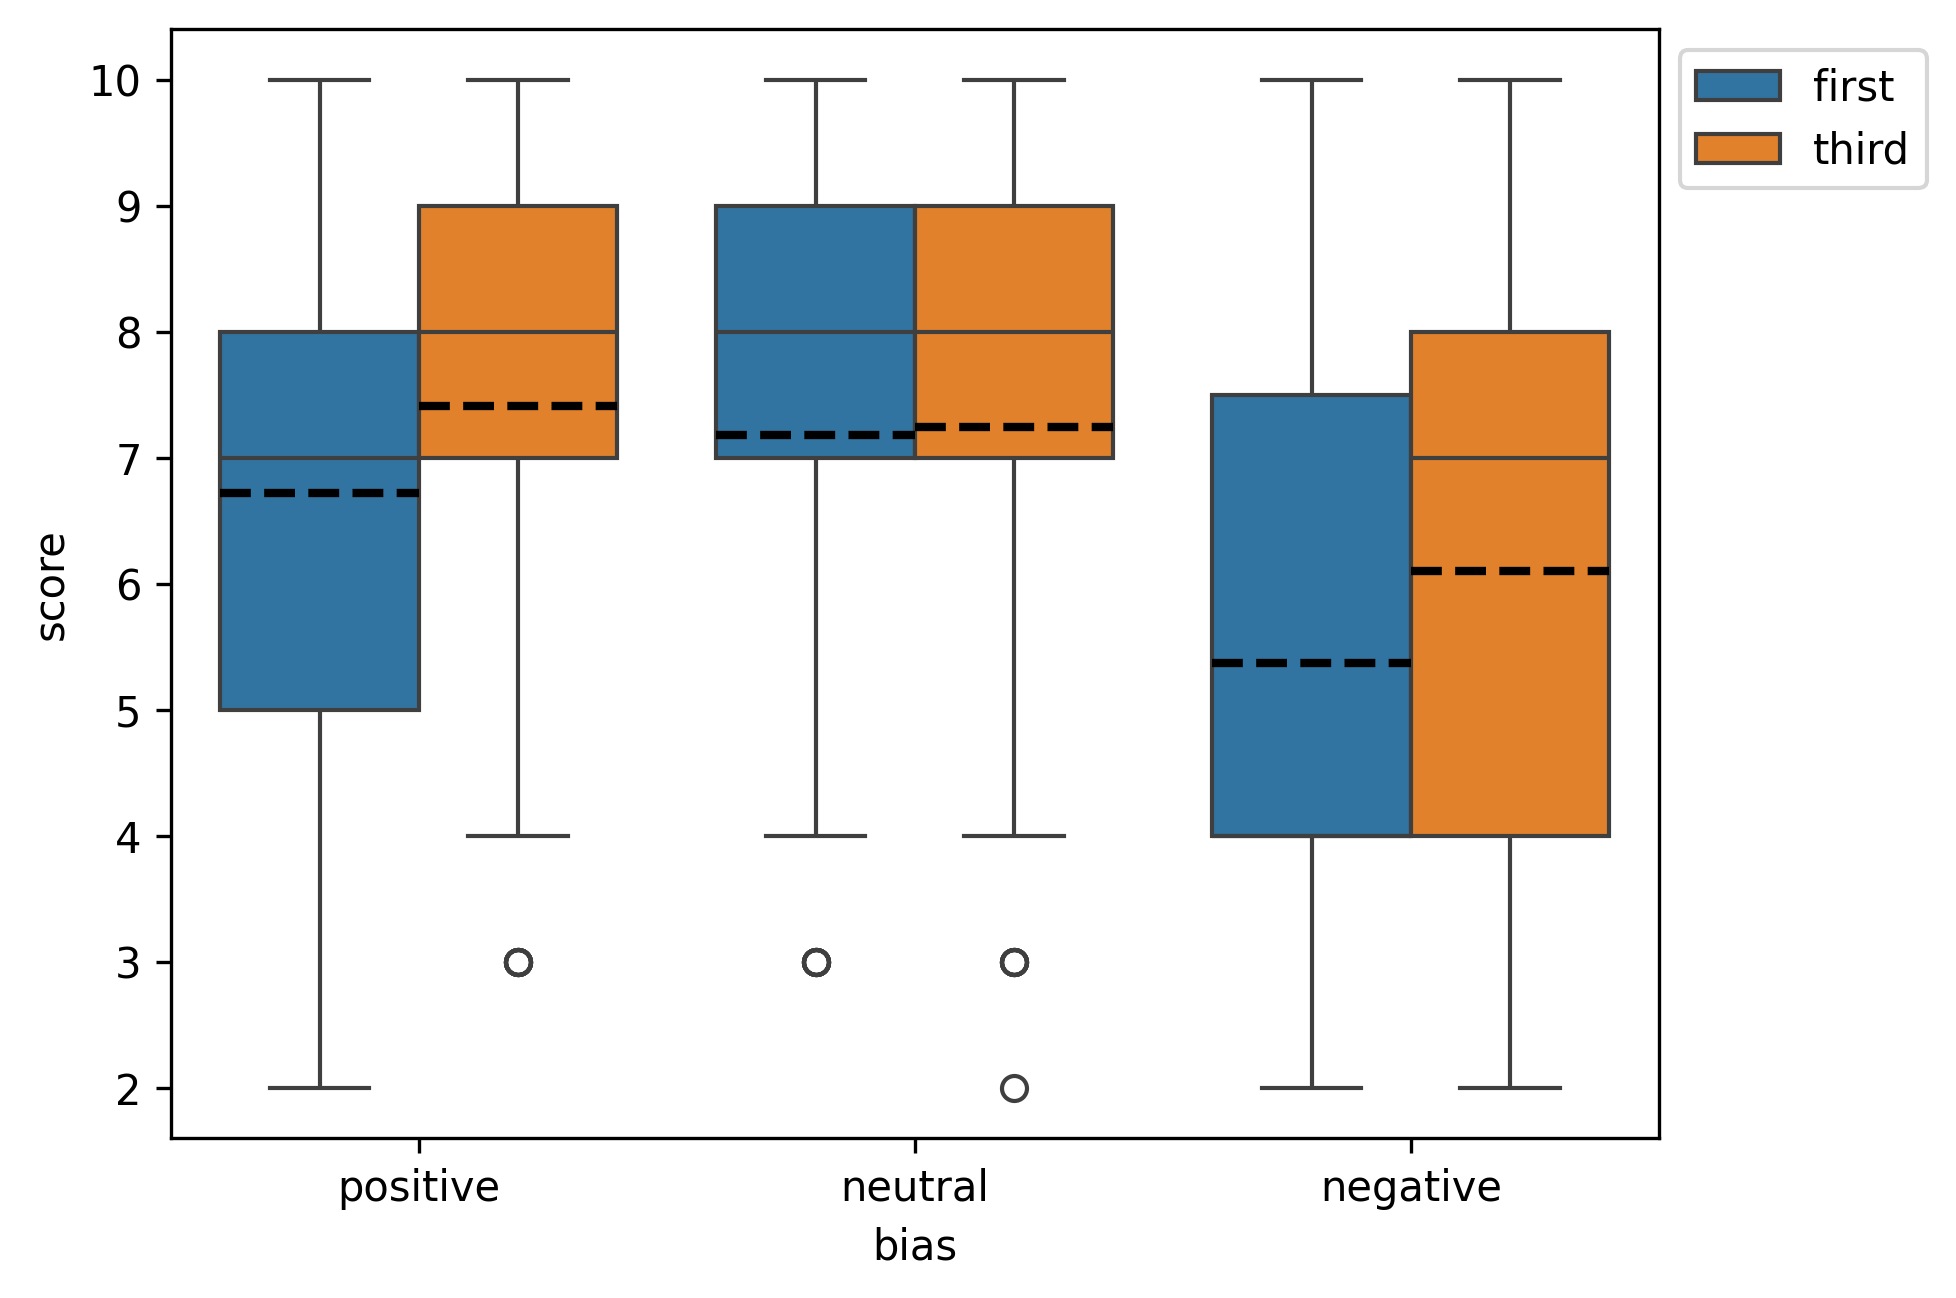
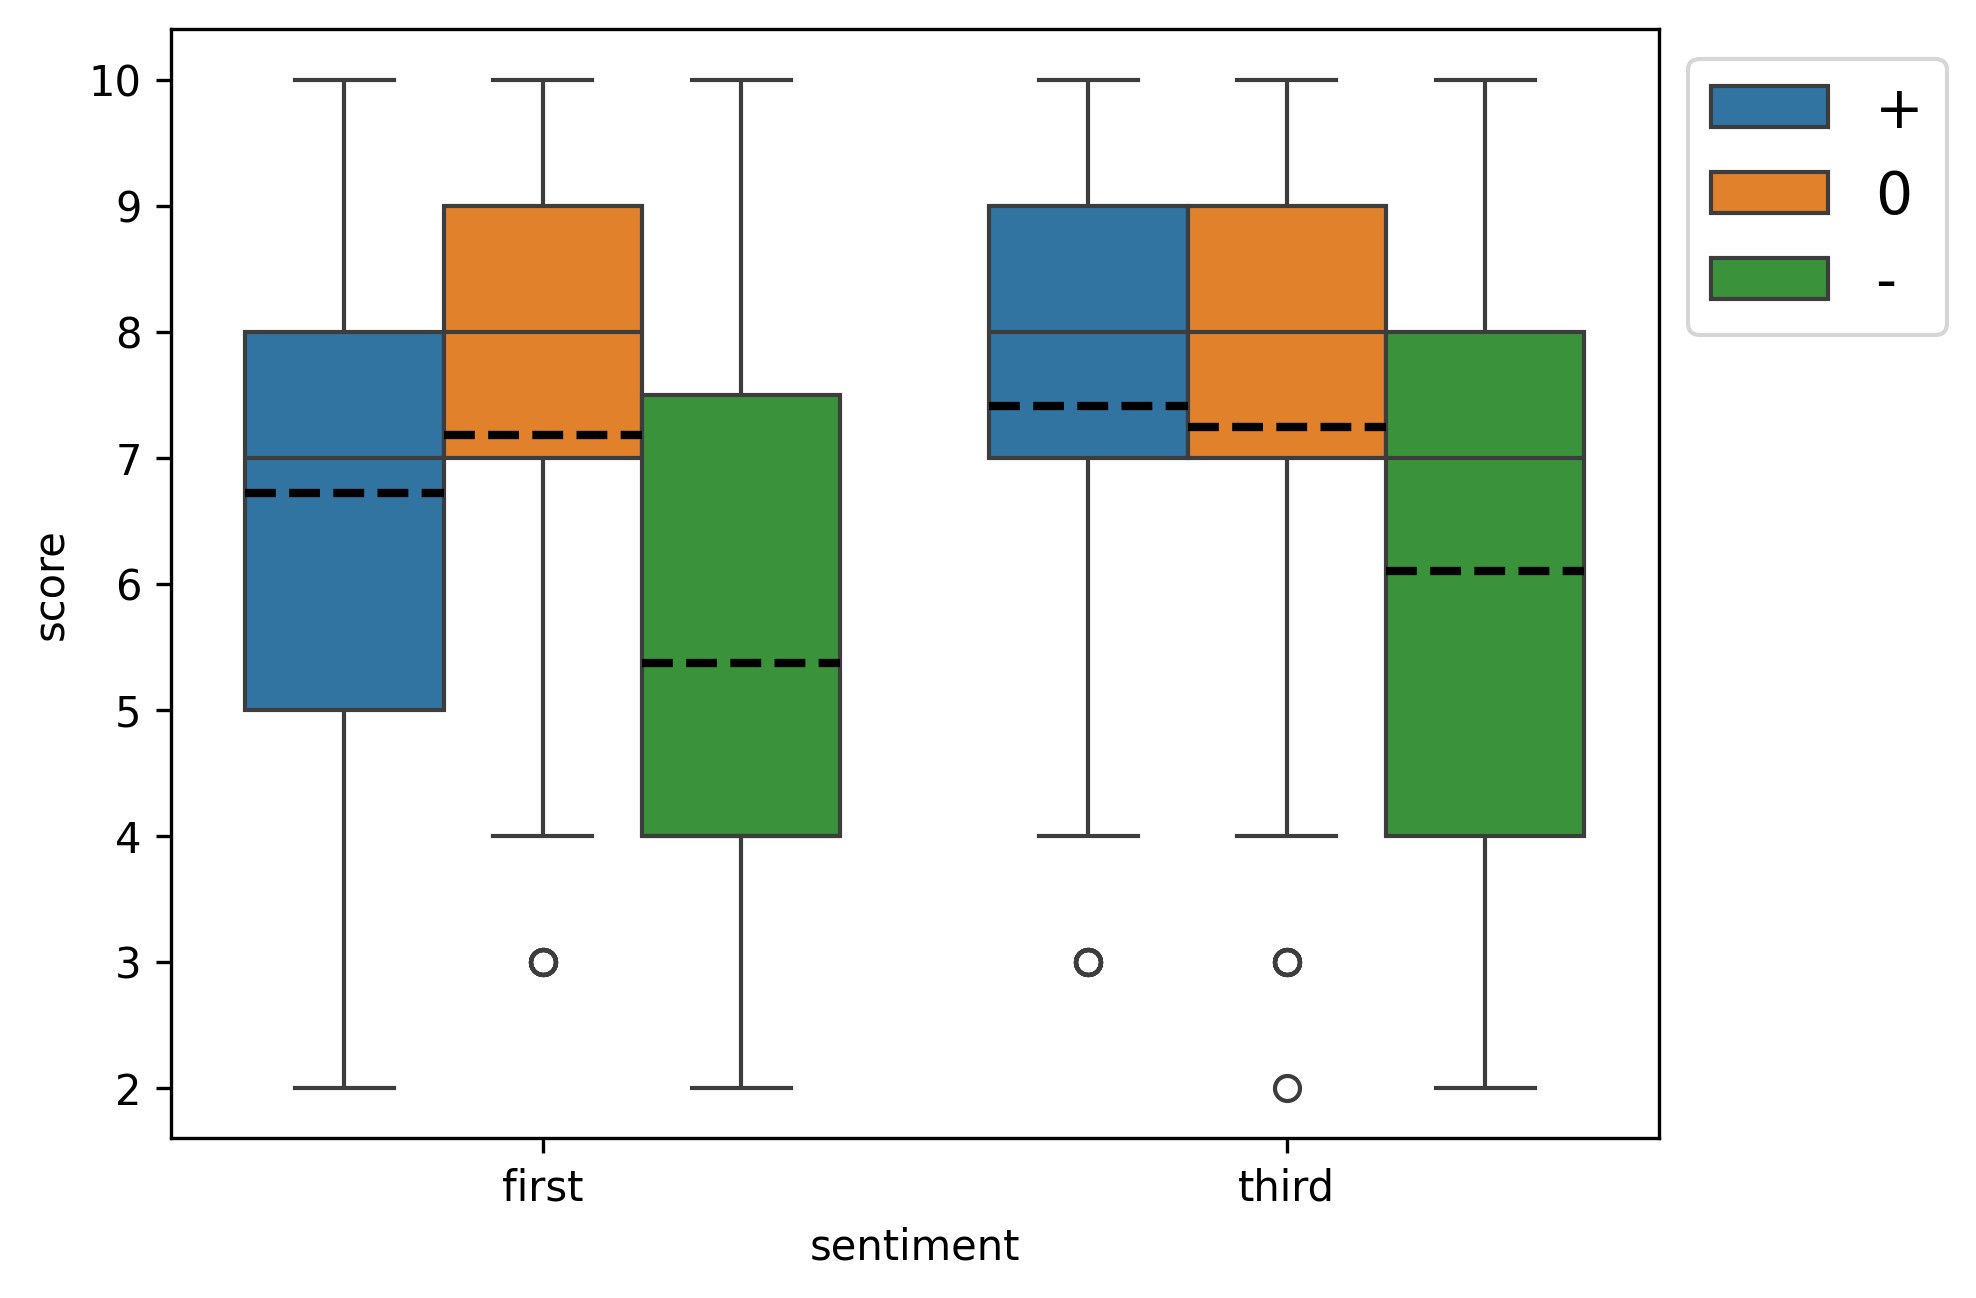
ART-RM-TF-Anova

diff --git a/DataAnalysis.py b/DataAnalysis.py
@@ -12,7 +12,7 @@ import seaborn as sns
 import matplotlib.pyplot as plt
 
 sns.boxplot(
-    x="bias",
+    x="sentiment",
     y="score",
     hue="perspective",
     data=df,
@@ -24,16 +24,18 @@ sns.boxplot(
 
 # plt.legend(loc='upper right')
 
+plt.rcParams.update({"font.size": 14})  # Adjust the number to your preference
 plt.legend(loc="upper left", bbox_to_anchor=(1, 1))
 
 # save the plot as a png file with god resolution and transparent background
 plt.savefig("boxplot.png", dpi=300, transparent=True, bbox_inches="tight")
 
+plt.savefig("boxplot.png", dpi=300, transparent=True, bbox_inches="tight")
 
 plt.show()
 # %%
 means_table = df.pivot_table(
-    index="bias",
+    index="sentiment",
     columns="perspective",
     values="score",
     aggfunc="mean",
@@ -47,8 +49,8 @@ means_table.to_latex("render.tex", float_format="%.4f")
 means_table.style.background_gradient(cmap="Greens", vmin=5, vmax=7.5)
 
 # %%
-means_table = df.pivot_table(
-    index="bias",
+std_table = df.pivot_table(
+    index="sentiment",
     columns="perspective",
     values="score",
     aggfunc="std",
@@ -56,37 +58,22 @@ means_table = df.pivot_table(
     margins_name="Average",
 )
 
-means_table.to_latex("render.tex", float_format="%.4f")
+std_table.to_latex("render.tex", float_format="%.4f")
 
 ## print this table with color coding
-means_table.style.background_gradient(cmap="Greens", vmin=1.88, vmax=2.26)
+std_table.style.background_gradient(cmap="Greens", vmin=1.88, vmax=2.26)
 # %%
 # make a shapiro test for normality
 from scipy.stats import shapiro
 
-models = []
-models_data = []
-
-
-# Initialize an empty DataFrame to store Shapiro test results
-shapiro_results = pd.DataFrame(columns=["bias", "perspective", "p-value"])
-
-# Loop through each combination of bias and perspective to perform Shapiro tests
-for n in df["bias"].unique():
-    for p in df["perspective"].unique():
-        data = df[(df["bias"] == n) & (df["perspective"] == p)]["score"]
-        stat, p_value = shapiro(data)
-        # Correctly append the results to the DataFrame
-        new_row = {"bias": n, "perspective": p, "p-value": p_value}
-        shapiro_results = shapiro_results.append(new_row, ignore_index=True)
-# Pivot the results to match the format of the previous pivot tables
-shapiro_pivot = shapiro_results.pivot(
-    index="bias", columns="perspective", values="p-value"
-)
-
-# Apply color coding to the pivot table
-styled_shapiro_pivot = shapiro_pivot.style.background_gradient(
-    cmap="Greens", vmin=0, vmax=0.05
-)  # Adjust vmin and vmax based on expected p-value range
-## data is not normally distributed
 # %%
+# make a shapiro test for normality
+from scipy.stats import shapiro
+
+for sentiment in df["sentiment"].unique():
+    for perspective in df["perspective"].unique():
+        data = df[(df["sentiment"] == sentiment) & (df["perspective"] == perspective)][
+            "score"
+        ]
+        stat, p = shapiro(data)
+        print(f"{sentiment}[{perspective}] p-value: {p}")

diff --git a/Pairwise Repeated Measures T-test.py b/Pairwise Repeated Measures T-test.py
@@ -47,7 +47,7 @@ for i, propmt1 in enumerate(prompts):
 
 def render(X):
     # Convert the list of tuples into a pandas DataFrame
-    t_test = pd.DataFrame(X, columns=["Prompt 1", "Prompt 2", "X"]).round(4)
+    t_test = pd.DataFrame(X, columns=["Prompt 1", "Prompt 2", "X"]).round(5)
 
     # Output the DataFrame
     t_test = (
@@ -80,20 +80,21 @@ df_results = pd.DataFrame({"versus": versus, "p-value": p_values_t_test})
 df_results.to_latex("render.tex", float_format="%.4f", index=False)
 df_results
 
-# %%
+# %% For making the same analysis for the transformed data, ie.
+# grouped by sentiment or perspective
 df = pd.read_excel("data/results.xlsx")
 
 # df.describe()
 
-bias_dict = defaultdict(list)
+sentiment_dict = defaultdict(list)
 perspectivedict = defaultdict(list)
 
 for i, row in df.iterrows():
-    bias_dict[row["bias"]].append(row["score"])
+    sentiment_dict[row["sentiment"]].append(row["score"])
     perspectivedict[row["perspective"]].append(row["score"])
 
-bias_df = pd.DataFrame(bias_dict)
+sentiment_df = pd.DataFrame(sentiment_dict)
 perspective_df = pd.DataFrame(perspectivedict)
 
-df = bias_df
+df = sentiment_df
 # df = perspective_df

diff --git a/render.tex b/render.tex
@@ -1,9 +1,12 @@
-\begin{tabular}{lrrr}
-\toprule
- & positive & neutral & negative \\
-\midrule
-positive & NaN & 0.0108 & 0.0000 \\
-neutral & 0.0108 & NaN & 0.0000 \\
-negative & 0.0000 & 0.0000 & NaN \\
-\bottomrule
+\begin{tabular}{lrrrrrr}
+    \toprule
+             & first[+] & first[0] & first[-] & third[+] & third[0] & third[-] \\
+    \midrule
+    first[+] &          & 0.0000   & 0.0000   & 0.0000   & 0.0000   & 0.0000   \\
+    first[0] & 0.0000   &          & 0.0000   & 0.0028   & 0.4219   & 0.0000   \\
+    first[-] & 0.0000   & 0.0000   &          & 0.0000   & 0.0000   & 0.0000   \\
+    third[+] & 0.0000   & 0.0028   & 0.0000   &          & 0.0062   & 0.0000   \\
+    third[0] & 0.0000   & 0.4219   & 0.0000   & 0.0062   &          & 0.0000   \\
+    third[-] & 0.0000   & 0.0000   & 0.0000   & 0.0000   & 0.0000   &          \\
+    \bottomrule
 \end{tabular}
